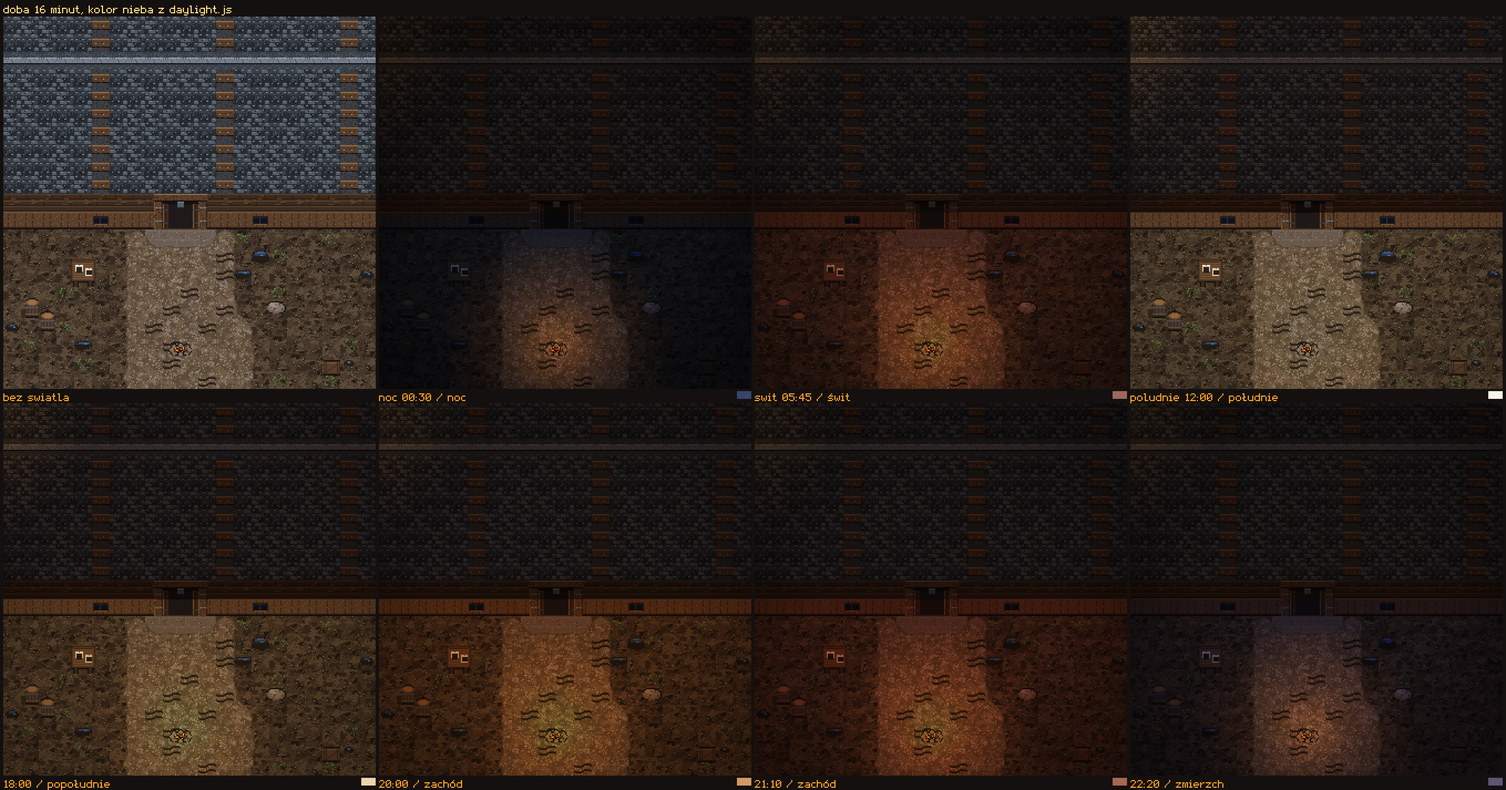
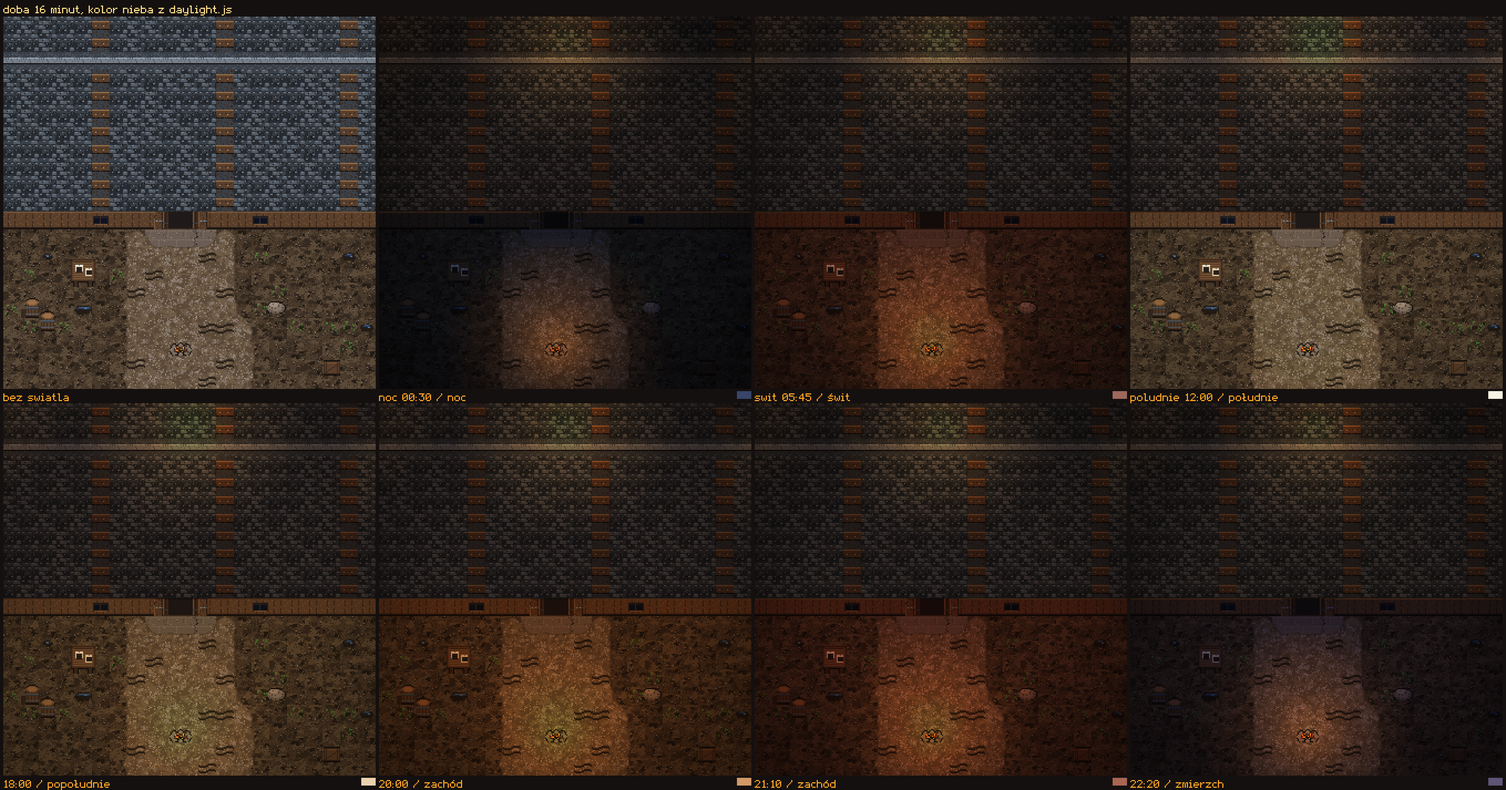
Swiat siedem razy wiekszy, podloze w kawalkach, ciemny dach naprawiony
Mapa 160x120 -> 384x288. Poprzednia dawala sie obejsc w niecale dwie minuty,
wiec "wyprawa" znaczyla tyle co spacer; teraz od bramy do najdalszego kranca
idzie sie kilka minut i przez wiekszosc drogi nie widac miasta.

Zeby to bylo w ogole mozliwe, podloze wypala sie w **kawalki po 128 kafli**,
a nie w jedna teksture wielkosci mapy. Jedna tekstura byla sufitem: WebGL
gwarantuje 4096 px na bok, a 320x240 kafli to juz 5120. Kawalki po 2048 px
mieszcza sie z zapasem i rozmiar mapy przestaje miec granice.

Nakladki wychodza pol kafla poza swoje pole, wiec kazda jest rysowana do
wszystkich kawalkow, ktorych moze dotknac - inaczej wzdluz styku bieglaby
szczelina.

Gestosc kepek trawy w dziczy 0.1 -> 0.03. Przy siedmiokrotnie wiekszym swiecie
ta sama gestosc dawala dziesiec tysiecy zywych obiektow sceny; teraz cztery.

Naprawiony ciemny dach. Poprzednia poprawka kazala przygaszac caly obrys
budynku, a dach lezy dokladnie na nim - wiec byl czarny w samo poludnie, mimo
ze widzi sie go z placu, w sloncu. Zgloszone: "w karczmie jest bardzo ciemno".
Przygaszamy teraz wnetrze **tylko gdy gracz jest w srodku**: z zewnatrz widac
dach oswietlony niebem, ze srodka ciemna hale.

diff --git a/client/src/scenes/Forge.js b/client/src/scenes/Forge.js
@@ -107,12 +107,53 @@ export class ForgeScene extends Phaser.Scene {
    * Podłoże i dekale trafiają raz na jedną teksturę wielkości mapy. Zamiast
    * tysiąca siedmiuset osobnych obrazków silnik rysuje potem jeden.
    */
+  /**
+   * Podłoże wypalone w **kawałki**, nie w jedną teksturę.
+   *
+   * Jedna tekstura wielkości mapy działała do 160×120 kafli (2560×1920 px)
+   * i była sufitem, o który powiększanie świata rozbiłoby się natychmiast:
+   * WebGL gwarantuje tylko 4096 px na bok, a mapa 320×240 to już 5120 px.
+   * Kawałki po 128 kafli (2048 px) mieszczą się z zapasem na każdej karcie
+   * i **znoszą ograniczenie rozmiaru mapy** — dochodzi ich tylko więcej.
+   *
+   * Rysowanie idzie tak samo jak wcześniej, tylko każdy kafel trafia do tego
+   * kawałka, w którym leży. Phaser sam pomija kawałki poza kadrem, więc przy
+   * dużej mapie to jest też oszczędność, a nie sam koszt.
+   */
   drawGround() {
-    const ground = this.add.renderTexture(0, 0, WORLD_W, WORLD_H)
-      .setOrigin(0, 0)
-      .setDepth(-100);
+    const CHUNK = 128 * TILE;
+    const kawalki = [];
+    for (let y = 0; y < WORLD_H; y += CHUNK) {
+      for (let x = 0; x < WORLD_W; x += CHUNK) {
+        const rt = this.add.renderTexture(x, y, Math.min(CHUNK, WORLD_W - x), Math.min(CHUNK, WORLD_H - y))
+          .setOrigin(0, 0)
+          .setDepth(-100);
+        rt.beginDraw();
+        kawalki.push({ rt, x, y });
+      }
+    }
+    const kolumny = Math.ceil(WORLD_W / CHUNK);
 
-    ground.beginDraw();
+    /** Kawałek, w którym leży punkt — plus przesunięcie na jego układ. */
+    const ground = {
+      batchDrawFrame: (klucz, ramka, px, py) => {
+        // Obiekty nakładki wychodzą pół kafla poza swoje pole, więc rysujemy je
+        // do **każdego** kawałka, którego mogą dotknąć — inaczej wzdłuż styku
+        // kawałków biegłaby szczelina szerokości pół kafla.
+        const x0 = Math.max(0, Math.floor((px - TILE) / CHUNK));
+        const x1 = Math.min(kolumny - 1, Math.floor((px + TILE) / CHUNK));
+        const y0 = Math.max(0, Math.floor((py - TILE * 4) / CHUNK));
+        const y1 = Math.floor((py + TILE * 4) / CHUNK);
+        for (let cy = y0; cy <= y1; cy++) {
+          for (let cx = x0; cx <= x1; cx++) {
+            const k = kawalki[cy * kolumny + cx];
+            if (k) k.rt.batchDrawFrame(klucz, ramka, px - k.x, py - k.y);
+          }
+        }
+      },
+      endDraw: () => { for (const k of kawalki) k.rt.endDraw(); },
+    };
+
     // Trzy warstwy, w tej kolejności: ziemia pod wszystkim, na niej trawa i droga
     // jako nakładki o własnym kształcie, na końcu ślady. Kolejność jest cała
     // różnica między terenem a szachownicą — nakładka rysowana pod podłożem albo

diff --git a/client/src/world/forge.js b/client/src/world/forge.js
@@ -113,8 +113,18 @@ export const CITY_OY = 8;
 const OFF_X = CITY_OX * TILE;
 const OFF_Y = CITY_OY * TILE;
 
-export const MAP_W = 160;
-export const MAP_H = 120;
+// **Świat ma być duży i nieznany.**
+//
+// 160×120 dawało się obejść w niecałe dwie minuty, więc „wyprawa" znaczyła
+// tyle co spacer. 384×288 to siedem razy większa powierzchnia: od bramy do
+// najdalszego krańca idzie się kilka minut, a przez większość tej drogi nie
+// widać miasta. Dopiero wtedy odległość jest kosztem, a nie liczbą.
+//
+// Podłoże wypala się w kawałki po 128 kafli (`drawGround`), więc rozmiar mapy
+// nie ma już sufitu — wcześniej jedna tekstura na całą mapę zatrzymałaby to
+// na 256 kaflach.
+export const MAP_W = 384;
+export const MAP_H = 288;
 export const WORLD_W = MAP_W * TILE;
 export const WORLD_H = MAP_H * TILE;
 
@@ -509,7 +519,12 @@ function buildDecals(tiles) {
         // gęstość dobrana na plac (0,55) dałaby na wielkiej mapie ponad siedem
         // tysięcy sprite'ów. W dziczy trawa jest tłem, po którym się biegnie;
         // na placu jest tym, po czym się chodzi i widać, jak się ugina.
-        if (rng.chance(wCity ? 0.5 : 0.1)) {
+        // Gęstość w dziczy zeszła z 0,1 na 0,03 razem z powiększeniem mapy.
+        // Przy siedmiokrotnie większym świecie ta sama gęstość dawała **dziesięć
+        // tysięcy żywych obiektów sceny** — każdy z własnym sprite'em i sprężyną.
+        // Poza kadrem nic ich nie liczy, ale samo ich istnienie kosztuje pamięć
+        // i czas budowy. W mieście zostaje gęsto, bo tam się chodzi najwięcej.
+        if (rng.chance(wCity ? 0.5 : 0.03)) {
           tufts.push({ key: `decal_tuft_${rng.int(3)}`, x: px, y: py });
         }
       }

diff --git a/client/src/render/lighting.js b/client/src/render/lighting.js
@@ -297,8 +297,19 @@ export class Lighting {
     const by0 = Math.round(toMaskY(this.building.y));
     const bx1 = Math.round(toMaskX(this.building.x + this.building.w));
     const by1 = Math.round(toMaskY(this.building.y + this.building.h));
-    ctx.fillStyle = `rgb(${forge.join(',')})`;
-    ctx.fillRect(bx0, by0, bx1 - bx0, by1 - by0);
+    // **Przygaszamy wnętrze tylko wtedy, gdy gracz jest w środku.**
+    //
+    // Prostokąt budynku pokrywa się co do piksela z dachem, więc stała ciemna
+    // plama gasiła **dach oglądany z placu** — w samo południe był czarny, mimo
+    // że leży w słońcu. Zgłoszone z gry: *w karczmie jest bardzo ciemno*.
+    //
+    // Z zewnątrz widać dach i ma być oświetlony niebem; ze środka widać halę
+    // i ta ma być ciemna. To jest ta sama informacja co `inside`, więc nie ma
+    // po co liczyć jej drugi raz.
+    if (inside) {
+      ctx.fillStyle = `rgb(${forge.join(',')})`;
+      ctx.fillRect(bx0, by0, bx1 - bx0, by1 - by0);
+    }
 
     // 2. Źródła światła, dodawane do maski.
     //
